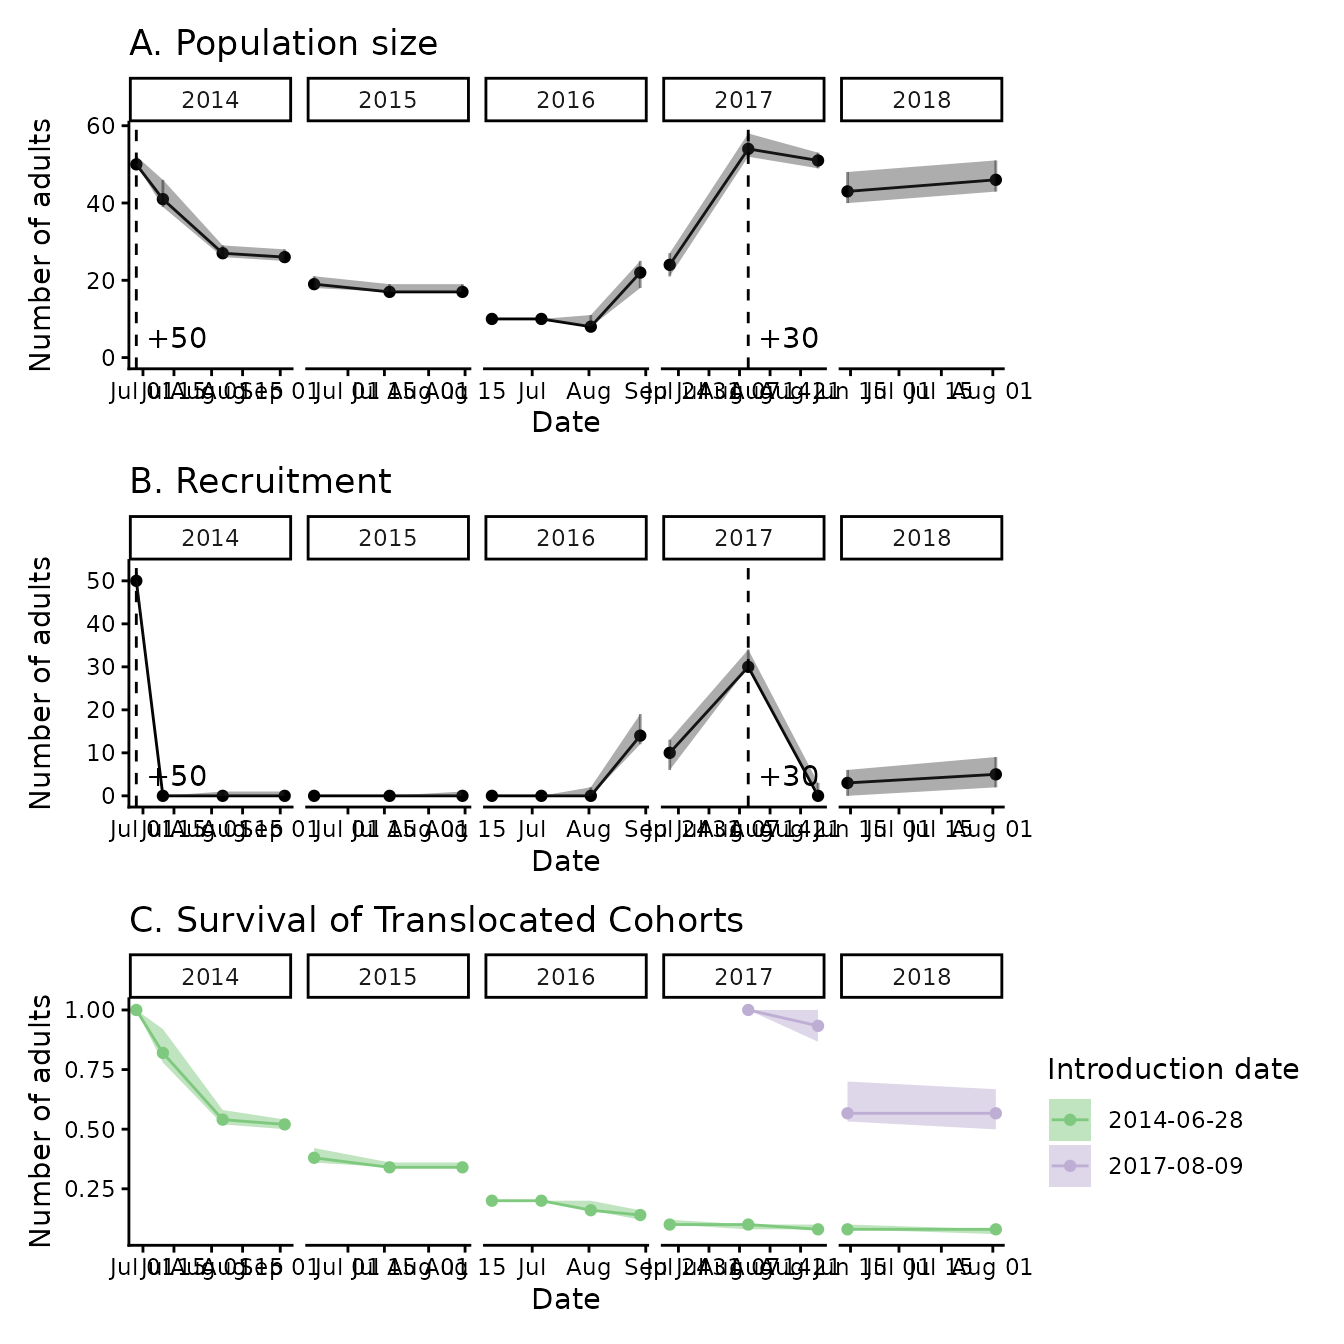
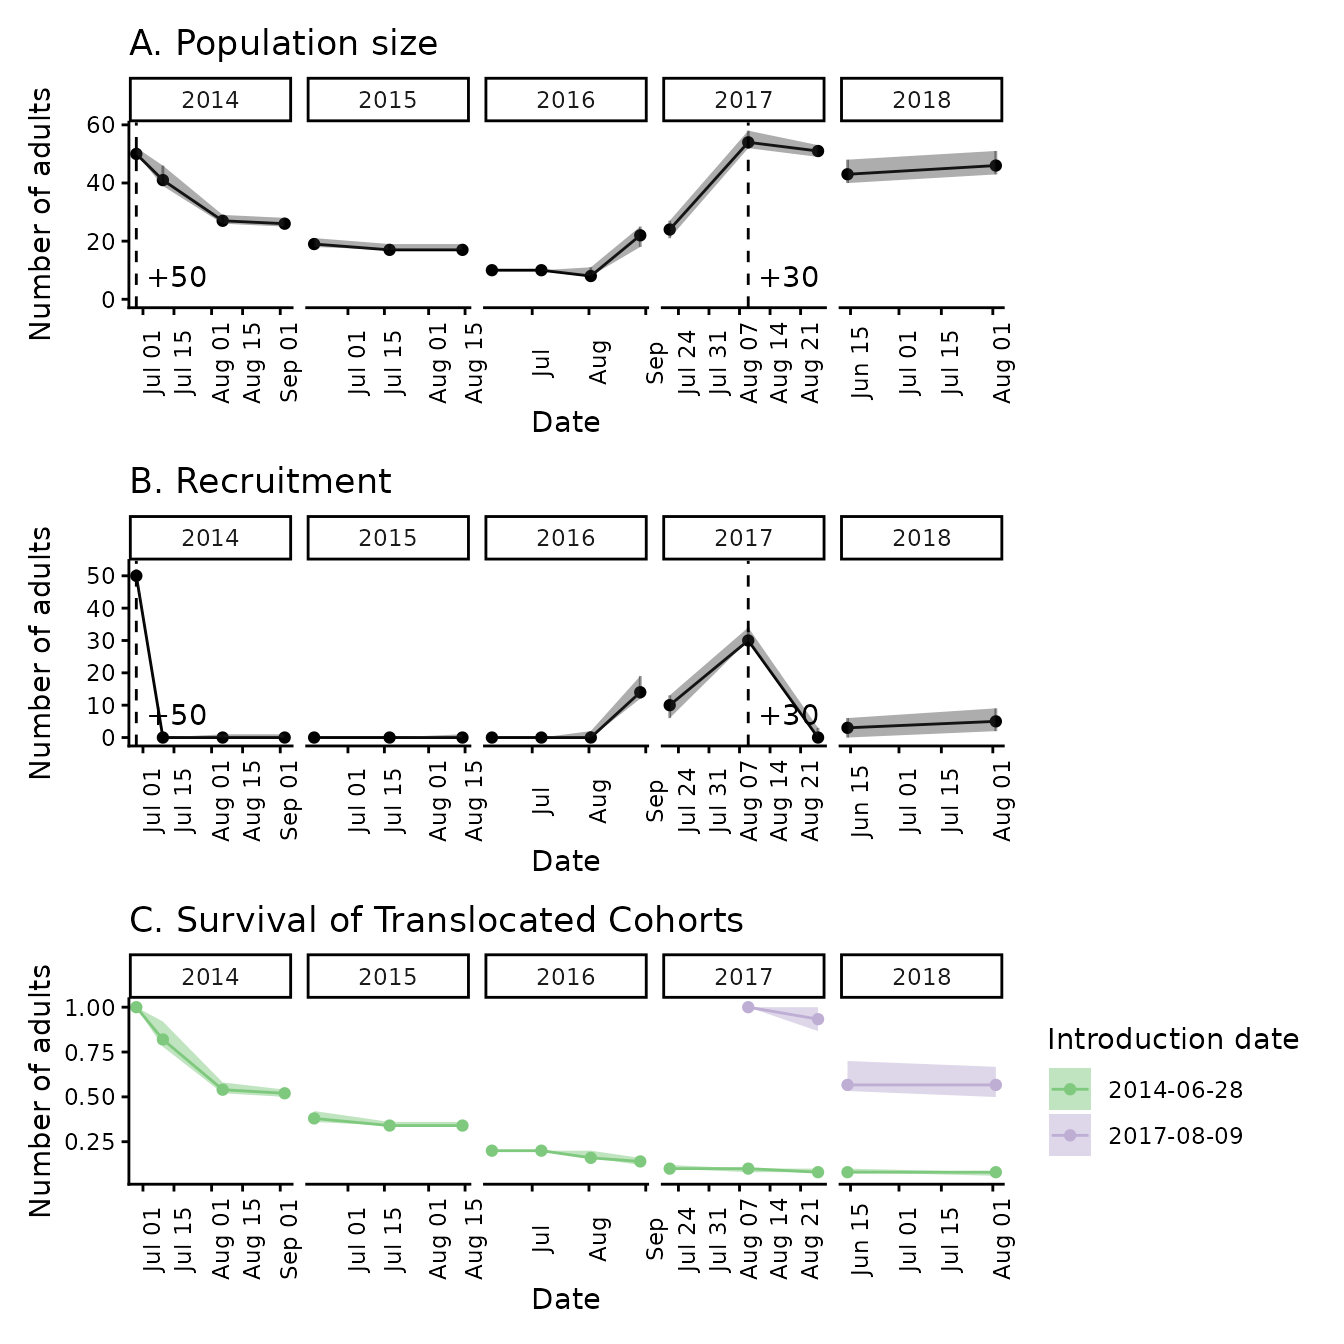
Deploying to gh-pages from @ SNARL1/mrmr2@37da63c6f64ce7883f73e4822b613f4a70abb81c 🚀

diff --git a/articles/intro-to-mrmr2.html b/articles/intro-to-mrmr2.html
@@ -855,17 +855,20 @@ functions:</p>
 <span><span class="va">p1</span> <span class="op">&lt;-</span> <span class="va">p1</span> <span class="op">+</span> <span class="fu"><a href="https://ggplot2.tidyverse.org/reference/labs.html" class="external-link">ggtitle</a></span><span class="op">(</span><span class="st">"A. Population size"</span><span class="op">)</span> <span class="op">+</span> </span>
 <span>  <span class="fu"><a href="https://ggplot2.tidyverse.org/reference/labs.html" class="external-link">ylab</a></span><span class="op">(</span><span class="st">"Number of adults"</span><span class="op">)</span> <span class="op">+</span> </span>
 <span>  <span class="fu"><a href="https://ggplot2.tidyverse.org/reference/expand_limits.html" class="external-link">expand_limits</a></span><span class="op">(</span>y <span class="op">=</span> <span class="fl">0</span><span class="op">)</span> <span class="op">+</span></span>
-<span>  <span class="fu"><a href="https://ggplot2.tidyverse.org/reference/ggtheme.html" class="external-link">theme_classic</a></span><span class="op">(</span><span class="op">)</span></span>
+<span>  <span class="fu"><a href="https://ggplot2.tidyverse.org/reference/ggtheme.html" class="external-link">theme_classic</a></span><span class="op">(</span><span class="op">)</span> <span class="op">+</span></span>
+<span>  <span class="fu"><a href="https://ggplot2.tidyverse.org/reference/theme.html" class="external-link">theme</a></span><span class="op">(</span>axis.text.x <span class="op">=</span> <span class="fu"><a href="https://ggplot2.tidyverse.org/reference/element.html" class="external-link">element_text</a></span><span class="op">(</span>angle <span class="op">=</span> <span class="fl">90</span><span class="op">)</span><span class="op">)</span></span>
 <span>  </span>
 <span><span class="va">p2</span> <span class="op">&lt;-</span> <span class="fu"><a href="../reference/plot_model.html">plot_model</a></span><span class="op">(</span><span class="va">mod</span>, what <span class="op">=</span> <span class="st">"recruitment"</span><span class="op">)</span></span>
 <span><span class="va">p2</span> <span class="op">&lt;-</span> <span class="va">p2</span> <span class="op">+</span> <span class="fu"><a href="https://ggplot2.tidyverse.org/reference/labs.html" class="external-link">ggtitle</a></span><span class="op">(</span><span class="st">"B. Recruitment"</span><span class="op">)</span> <span class="op">+</span></span>
 <span>  <span class="fu"><a href="https://ggplot2.tidyverse.org/reference/labs.html" class="external-link">ylab</a></span><span class="op">(</span><span class="st">"Number of adults"</span><span class="op">)</span> <span class="op">+</span></span>
-<span>  <span class="fu"><a href="https://ggplot2.tidyverse.org/reference/ggtheme.html" class="external-link">theme_classic</a></span><span class="op">(</span><span class="op">)</span></span>
+<span>  <span class="fu"><a href="https://ggplot2.tidyverse.org/reference/ggtheme.html" class="external-link">theme_classic</a></span><span class="op">(</span><span class="op">)</span> <span class="op">+</span></span>
+<span>  <span class="fu"><a href="https://ggplot2.tidyverse.org/reference/theme.html" class="external-link">theme</a></span><span class="op">(</span>axis.text.x <span class="op">=</span> <span class="fu"><a href="https://ggplot2.tidyverse.org/reference/element.html" class="external-link">element_text</a></span><span class="op">(</span>angle <span class="op">=</span> <span class="fl">90</span><span class="op">)</span><span class="op">)</span></span>
 <span></span>
 <span><span class="va">p3</span> <span class="op">&lt;-</span> <span class="fu"><a href="../reference/plot_model.html">plot_model</a></span><span class="op">(</span><span class="va">mod</span>, what <span class="op">=</span> <span class="st">"f_survival"</span><span class="op">)</span></span>
 <span><span class="va">p3</span> <span class="op">&lt;-</span> <span class="va">p3</span> <span class="op">+</span> <span class="fu"><a href="https://ggplot2.tidyverse.org/reference/labs.html" class="external-link">ggtitle</a></span><span class="op">(</span><span class="st">"C. Survival of Translocated Cohorts"</span><span class="op">)</span> <span class="op">+</span></span>
 <span>  <span class="fu"><a href="https://ggplot2.tidyverse.org/reference/labs.html" class="external-link">ylab</a></span><span class="op">(</span><span class="st">"Number of adults"</span><span class="op">)</span> <span class="op">+</span> </span>
-<span>  <span class="fu"><a href="https://ggplot2.tidyverse.org/reference/ggtheme.html" class="external-link">theme_classic</a></span><span class="op">(</span><span class="op">)</span></span>
+<span>  <span class="fu"><a href="https://ggplot2.tidyverse.org/reference/ggtheme.html" class="external-link">theme_classic</a></span><span class="op">(</span><span class="op">)</span> <span class="op">+</span></span>
+<span>  <span class="fu"><a href="https://ggplot2.tidyverse.org/reference/theme.html" class="external-link">theme</a></span><span class="op">(</span>axis.text.x <span class="op">=</span> <span class="fu"><a href="https://ggplot2.tidyverse.org/reference/element.html" class="external-link">element_text</a></span><span class="op">(</span>angle <span class="op">=</span> <span class="fl">90</span><span class="op">)</span><span class="op">)</span></span>
 <span>  </span>
 <span><span class="va">p1</span> <span class="op">/</span> <span class="va">p2</span> <span class="op">/</span><span class="va">p3</span></span></code></pre></div>
 <p><img src="intro-to-mrmr2_files/figure-html/plots-custom-1.png" class="r-plt" alt="" width="672"></p>
